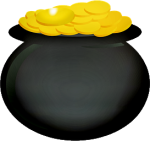
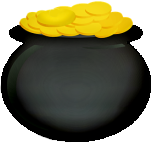
Added some more images, did some style changes at the index.html, did some minor corrections in the README.md

diff --git a/index.html b/index.html
@@ -3,7 +3,7 @@
 
 <head>
     <meta charset="UTF-8">
-    <meta name="description" content="">
+    <meta name="description" content="A Quiz for St. Patrick's Day to steal the gold of the leprechaun">
     <meta name="author" content="Team-18">
     <meta http-equiv="X-UA-Compatible" content="IE=edge">
     <meta name="viewport" content="width=device-width, initial-scale=1.0">
@@ -16,40 +16,46 @@
     <title>Steal the Gold</title>
 </head>
 
-<body>
+<body>    
     <!-- Header Section -->
     <header>
+        
         <div class="container h-100">
             <div class="row">
-                <div class="col-12 center ">
+                <div class="col-12 center">
                     <img id="banner" src="assets/images/irish-banner.png" alt="Irish Flagg Banner">
                 </div>
+                <div class="jumbotron">
 
-                <div class="row">
-                    <div class="col-12 text-center my-5">
-                        <h1 class="paddy-day-header">Happy St. Patrick's Day</h1>
-                        <h4 class="my-4">
-                            The leprechaun has fallen asleep so let's try to steal his gold! For each
-                            question you get right you steal one gold piece.
-                        </h4>
-                        <p>
-                            Click start to begin
-                        </p>
-                    </div>
+                    <div class="row">
+                        <div class="col-12 text-center ">
+                            <h1 class="paddy-day-header">
+                                Happy<br> 
+                                St. Patrick's Day
+                            </h1>
+                            <h4 class="my-5">
+                                The leprechaun has fallen asleep so let's try to steal his gold!<br>
+                                For each question you get right you steal one gold piece.
+                            </h4>
+                            <p>
+                                Click start to begin
+                            </p>
+                        </div>
 
-                    <div class="col-12 text-center">
-                        <a href="game.html">
-                            <button id="start" type="button" class="btn btn-success my-2">
-                                <h4>
-                                    Start the game
-                                </h4>
-                            </button>
-                        </a>
+                        <div class="col-12 text-center my-2">
+                            <a href="game.html">
+                                <button id="start" type="button" class="btn btn-success my-2">
+                                    <h4>
+                                        Start the game
+                                    </h4>
+                                </button>
+                            </a>
+                        </div>
                     </div>
                 </div>
             </div>
         </div>
-
+        
     </header>
     <!-- /Header Section -->
 

diff --git a/game.html b/game.html
@@ -24,7 +24,7 @@
                         <img id="leprechaun" src="assets/images/irish-banner.png" alt="Irish Flagg Banner">                    
                 </div>
                 <div class="row">
-                    <div class="col-12 text-center mt-5">
+                    <div class="col-12 text-center mt-4">
                         <h2>Steal the gold</h2>                    
                     </div>
                 </div>
@@ -48,7 +48,7 @@
                 </div>    
                 <div class="col-sm-12 text-center my-2">
                     <h2>Gold Coins: </h2>
-                    <img src="" alt="">
+                    <img src="assets/images/gold-coins.png" alt="Gold Coins">
                 </div>
             </div>
 

diff --git a/assets/css/style.css b/assets/css/style.css
@@ -12,7 +12,13 @@
 }
 
 .paddy-day-header {
-    font-size: 40px;
+    font-size: 3.75rem;
+    margin-bottom: 40px;
+}
+
+.gold-header {
+    font-size: 3.75rem;
+    margin-bottom: 20px;
 }
 
 /* -------------------------------------Navbar */
@@ -22,11 +28,11 @@
 body {    
     background-image: url(/assets/images/background-clover.jpg); 
     background-repeat: no-repeat;
-    background-size: cover;
-    color: white;   
-    height: 100vh;
+    background-size: cover;      
+    height: 100vh;    
     
     font-family: 'Roboto', sans-serif;
+    color: white;
 }
 
 h1,
@@ -38,6 +44,7 @@ h3 {
 #banner {
     width: 80%;
 }
+
 #leprechaun {
     width: 50%;
 }

diff --git a/README.md b/README.md
@@ -14,7 +14,7 @@
 
 Hackathon Project
 ======
-## <img src="assets/images/shamrock.png"> Happy St. Patricks Day Game Quizz<img src="assets/images/shamrock.png">
+## <img src="assets/images/shamrock.png"> Happy St. Patrick's Day Quiz<img src="assets/images/shamrock.png">
 
 By: LaiMo, Nicola, Simon, Sue, SuzyBee, Tobi, Marina, March 2021<br>
 This Project is an Team Event Project organized by [Code Institute](https://www.codeinstitute.net/).
@@ -39,7 +39,7 @@ Live Project
 ## Contents ##
 
 - [Hackathon Project](#hackathon-project)
-  - [<img src="assets/images/shamrock.png"> Happy St. Patricks Day Game Quizz<img src="assets/images/shamrock.png">](#-happy-st-patricks-day-game-quizz)
+  - [Happy St. Patricks Day Quiz](#-happy-st-patricks-day-quiz-)
 - [Project description](#project-description)
 - [Screenshot](#screenshot)
 - [Live Project](#live-project)
@@ -137,7 +137,7 @@ I achieve this by:
 
 ### Fonts ###
 
-We chose the [Lobbster](https://fonts.google.com/specimen/Lobster?preview.text_type=custom#standard-styles) font for the h1-h3 and the [Roboto](https://fonts.google.com/specimen/Roboto?preview.text_type=custom) font as basic and Sans-Serif as default font.
+We chose the [Lobster](https://fonts.google.com/specimen/Lobster?preview.text_type=custom#standard-styles) font for the h1-h3 and the [Roboto](https://fonts.google.com/specimen/Roboto?preview.text_type=custom) font as basic and Sans-Serif as default font.
 
 ### Colours ###
 
@@ -168,6 +168,7 @@ The Hero image is the irish flag in a banner desing.
 
 paint. net was used to create the wireframes during the design process.
 [View the wireframes here.](wireframes/paddy-day-quiz.jpg)
+
 
 ---  
 
